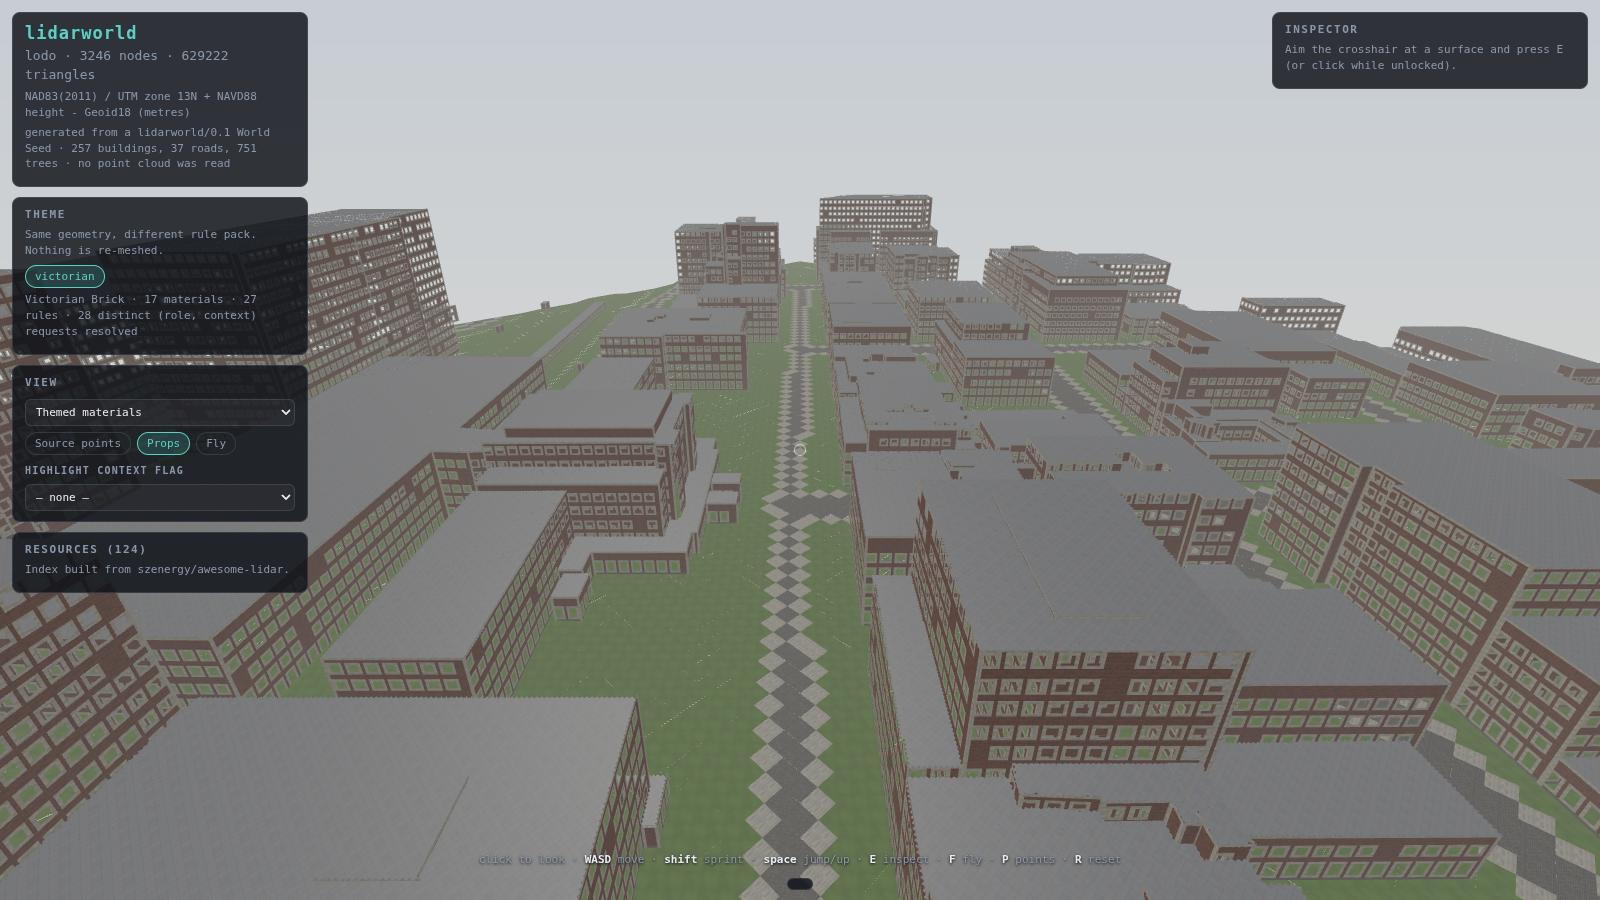
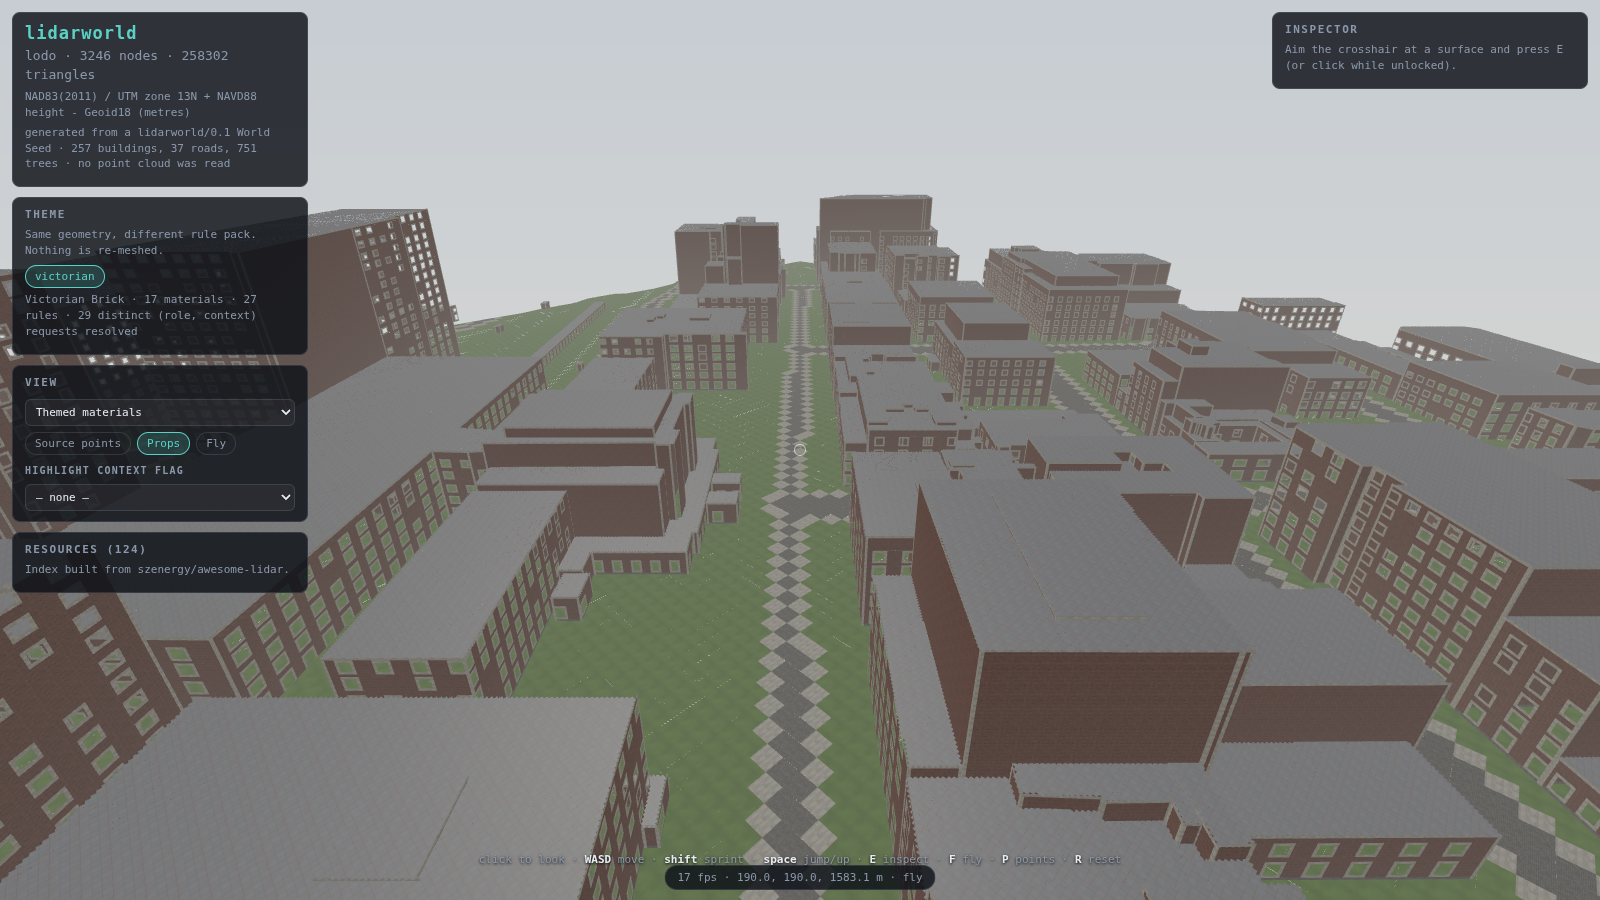
Fix the fenestration: vary the bays, and leave party walls blank
Every wall had a window every 3 m on every storey, which reads as a
spreadsheet rather than a street, and it put windows on walls that are built
hard against the neighbouring building.

PARTY WALLS ARE BLANK NOW. A terrace shares its side walls and those are solid
brick, because there is literally another building there. Testing a point just
outside each wall's midpoint against every other footprint is enough to know:
if it lands inside a neighbour, nothing can be seen through that wall. This is
also why the block looked like a free-standing office park instead of a
terrace, and it halves the triangle count -- 603,066 to 258,302 -- because
those windows were geometry nobody could ever see.

BAY WIDTH VARIES BY BUILDING, 4.2 to 7.0 m, with the glazed fraction between
30 and 45%. Deterministic on the building's identity, so the street is the same
street every run. Uniform bays are most of what made a row of blocks look
stamped out.

Worth stating plainly, since it is the obvious question: LiDAR does not show
these windows and cannot. There are no facade returns to find them in -- the
walls are extruded from footprints because airborne LiDAR at 3.6 pts/m2 sees
roofs, not walls -- and the compiler's own opening detector reports 0 openings
across the block for exactly that reason. Where facades *are* sampled the
detector works well, because glass returns nothing at 905 nm and an enclosed
hole in wall returns is a window. Here there are no wall returns to hole. Every
[…]

diff --git a/src/lidarworld/world/generate.py b/src/lidarworld/world/generate.py
@@ -124,6 +124,13 @@ def expand(seed: dict, *, tile: float = 0.5, roof_pitch: float = 0.0) -> World:
     quads = mesh_stage.add_terrain(builder, raster, dtm, classes, context,
                                    terrain_stage.ROLE_LOOKUP, 0)
 
+    # Footprints of every building, so a wall can ask whether the next
+    # building is standing against it.
+    neighbours = []
+    for other in seed.get("buildings", []):
+        other_ring = np.asarray(other.get("footprint", []), dtype=float)
+        neighbours.append(other_ring if len(other_ring) >= 4 else None)
+
     walls_made = 0
     for index, building in enumerate(seed.get("buildings", [])):
         ring = np.asarray(building["footprint"], dtype=float)
@@ -143,6 +150,7 @@ def expand(seed: dict, *, tile: float = 0.5, roof_pitch: float = 0.0) -> World:
 
         surfaces = extrude_stage.walls_from_footprint(ring, base, top,
                                                       start_id=walls_made)
+        _mark_party_walls(surfaces, ring, neighbours, index)
         walls_made += len(surfaces)
         for patch in surfaces:
             width, height = patch.extent
@@ -259,6 +267,12 @@ def _fenestrate(lattice, patch, building, index: int) -> None:
     """
     if not patch.role.startswith("surface.wall"):
         return
+    if patch.attrs.get("party_wall"):
+        # A wall built hard against the neighbouring building. In brick cities
+        # these are blank by construction -- you cannot put a window where the
+        # next building is -- and glazing them is what made every block look
+        # like a free-standing office park rather than a terrace.
+        return
     occupancy = lattice.occupancy
     context = lattice.context
     nu, nv = occupancy.shape
@@ -269,10 +283,17 @@ def _fenestrate(lattice, patch, building, index: int) -> None:
 
     rng = np.random.default_rng(abs(hash((building.get("id", index), patch.id))) % (2 ** 32))
     storeys = max(1, int(round(height_m / STOREY_M)))
-    win_w = max(2, int(round(1.4 / cell)))     # ~1.4 m wide
-    win_h = max(2, int(round(1.6 / cell)))     # ~1.6 m tall
-    pier = max(2, int(round(1.6 / cell)))      # wall between windows
-    pitch = win_w + pier
+
+    # A window every 3 m on every wall of every building reads as a
+    # spreadsheet, not a street. Real frontages vary the bay width by building,
+    # and the variation is most of what stops a row of blocks looking stamped.
+    # Deterministic per building, so the street is the same street every run.
+    bay_m = float(rng.uniform(4.2, 7.0))
+    win_frac = float(rng.uniform(0.30, 0.45))   # how much of a bay is glass
+    win_w = max(2, int(round(bay_m * win_frac / cell)))
+    win_h = max(2, int(round(rng.uniform(1.5, 2.1) / cell)))
+    pitch = max(win_w + 2, int(round(bay_m / cell)))
+    pier = pitch - win_w
     if pitch >= nu:
         return
 
@@ -286,7 +307,7 @@ def _fenestrate(lattice, patch, building, index: int) -> None:
         if top >= nv - 1:
             break
         for u0 in range(margin, nu - win_w, pitch):
-            if storey and rng.random() < 0.06:
+            if storey and rng.random() < 0.10:
                 continue           # a blank bay; perfect regularity reads as CGI
             occupancy[u0:u0 + win_w, sill:top] = 0
             # Flag the reveal so a theme can put trim or a lintel on it.
@@ -316,3 +337,33 @@ def _clip_to_footprint(lattice, patch, ring: np.ndarray) -> None:
     world_xy = patch.unproject(uv)[:, :2]
     inside = point_in_polygon(world_xy, ring[:, :2]).reshape(nu, nv)
     lattice.occupancy[~inside] = 0
+
+
+def _mark_party_walls(surfaces, ring: np.ndarray, neighbours, index: int,
+                      probe: float = 0.9) -> None:
+    """Flag walls that stand against another building rather than open air.
+
+    A terrace shares its side walls, and those are blank brick because there is
+    literally another building there. Testing a point just outside the wall's
+    midpoint against every other footprint is enough to tell -- if it lands
+    inside a neighbour, nothing can be seen through that wall.
+    """
+    from ..data.gis import point_in_polygon
+
+    centre = ring[:, :2].mean(axis=0)
+    for patch in surfaces:
+        mid = np.asarray(patch.centroid, dtype=float)[:2]
+        outward = mid - centre
+        norm = float(np.hypot(*outward))
+        if norm < 1e-6:
+            continue
+        sample = (mid + outward / norm * probe)[None, :]
+        for other, other_ring in enumerate(neighbours):
+            if other == index or other_ring is None:
+                continue
+            lo, hi = other_ring[:, :2].min(axis=0), other_ring[:, :2].max(axis=0)
+            if not (lo[0] <= sample[0, 0] <= hi[0] and lo[1] <= sample[0, 1] <= hi[1]):
+                continue
+            if point_in_polygon(sample, other_ring[:, :2])[0]:
+                patch.attrs["party_wall"] = True
+                break
